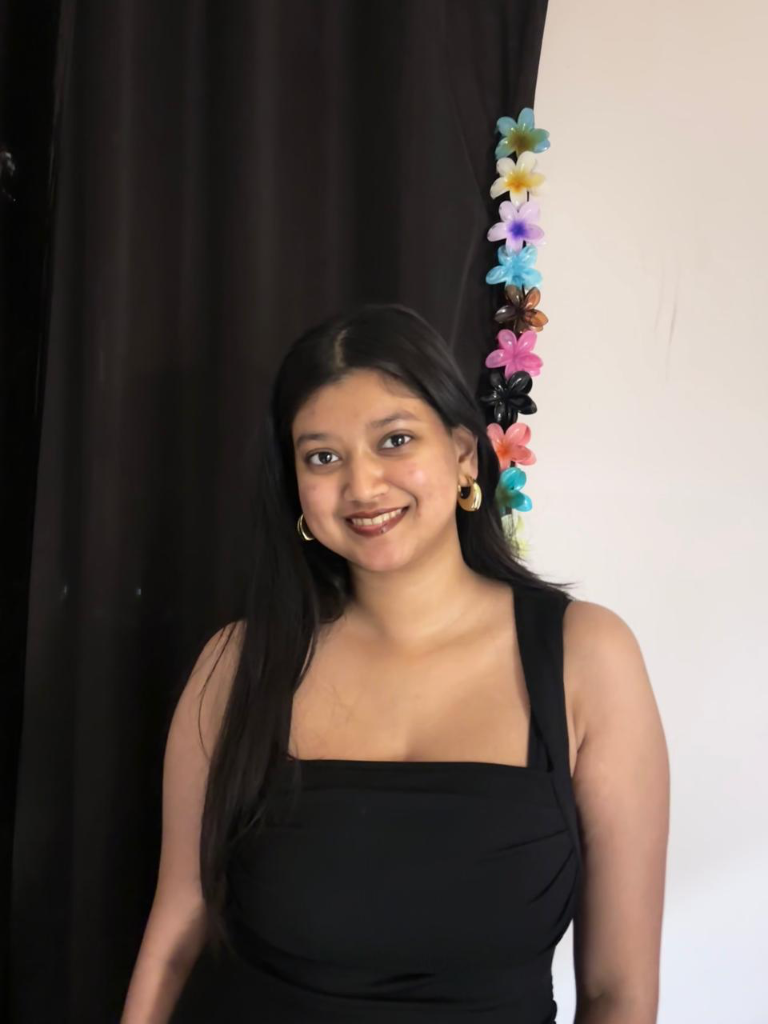
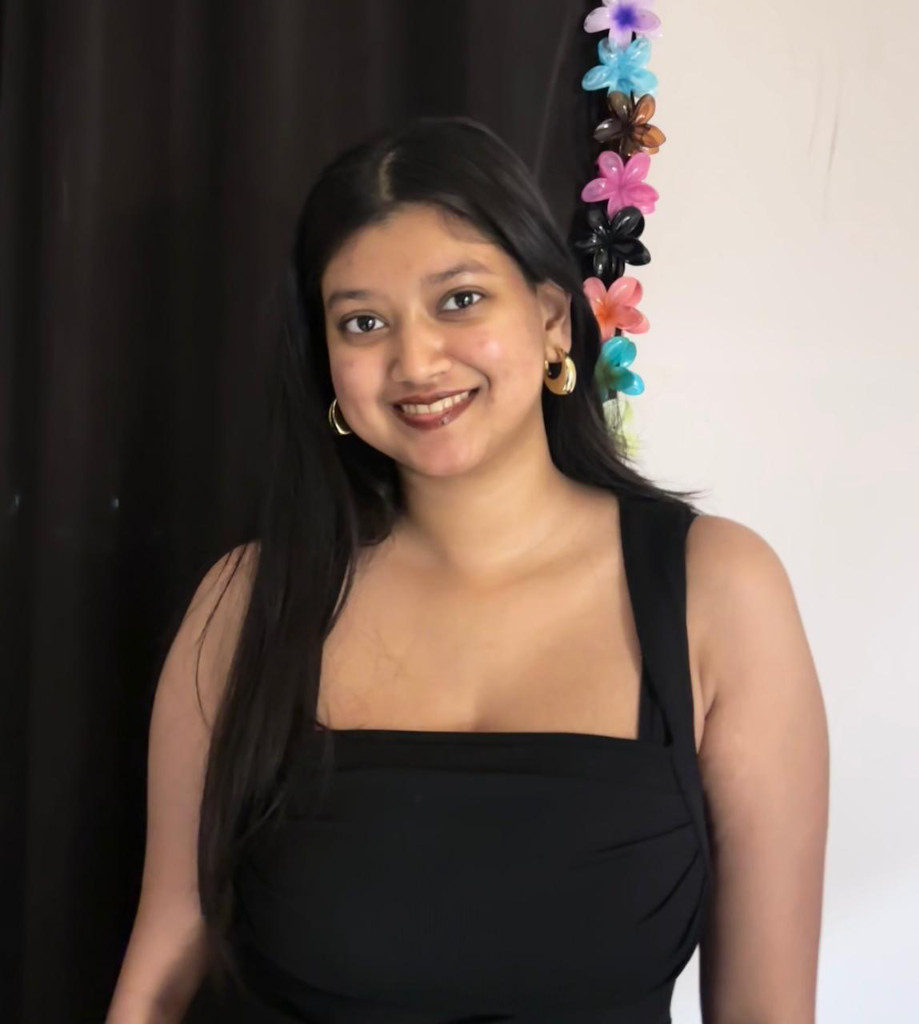
fix: update info card, new photo ascii, and catch recent contributions

diff --git a/scripts/prep_photo.py b/scripts/prep_photo.py
@@ -1,46 +1,12 @@
-"""Prep a photo for ASCII conversion: remove background, crop to square, boost contrast."""
+"""Prep a photo for ASCII conversion: remove background, boost contrast, composite on white."""
 import sys
 import os
+
 import numpy as np
 from PIL import Image
 from rembg import remove
 import cv2
 
-def crop_to_square(img_arr):
-    # img_arr is grayscale, white background (255)
-    # Find bounding box of non-white pixels
-    non_white = img_arr < 250
-    coords = np.argwhere(non_white)
-    
-    if coords.size == 0:
-        return img_arr # Empty image
-        
-    y0, x0 = coords.min(axis=0)
-    y1, x1 = coords.max(axis=0)
-    
-    # Add a little padding
-    pad = 20
-    h_img, w_img = img_arr.shape
-    y0 = max(0, y0 - pad)
-    y1 = min(h_img, y1 + pad)
-    x0 = max(0, x0 - pad)
-    x1 = min(w_img, x1 + pad)
-    
-    cropped = img_arr[y0:y1, x0:x1]
-    
-    # Now make it a square by cropping height to width (from top), or width to height
-    h, w = cropped.shape
-    size = min(h, w)
-    
-    if h > w:
-        # crop bottom to make square (keep top/face)
-        return cropped[:w, :]
-    elif w > h:
-        # crop sides to make square (keep center)
-        diff = (w - h) // 2
-        return cropped[:, diff:diff+h]
-    else:
-        return cropped
 
 def main():
     if len(sys.argv) < 2:
@@ -66,14 +32,11 @@ def main():
     # 2. Composite onto white
     white = Image.new("RGBA", img.size, (255, 255, 255, 255))
     composite = Image.alpha_composite(white, img).convert("L")  # grayscale
-    
-    # 3. Crop to square focusing on the subject
-    arr = np.array(composite)
-    square_arr = crop_to_square(arr)
 
-    # 4. Boost local contrast with CLAHE
+    # 3. Boost local contrast with CLAHE
+    arr = np.array(composite)
     clahe = cv2.createCLAHE(clipLimit=3.0, tileGridSize=(8, 8))
-    enhanced = clahe.apply(square_arr)
+    enhanced = clahe.apply(arr)
 
     Image.fromarray(enhanced).save(out_path)
     print(f"✓ Prepped photo → {out_path}")

diff --git a/scripts/make_info_card.py b/scripts/make_info_card.py
@@ -48,16 +48,16 @@ SVG = """\
       <text x="0" y="0"><tspan class="kn">Now      </tspan>: Building AI Agents &amp; ML Systems</text>
     </g>
     <g class="line d2">
-      <text x="0" y="22"><tspan class="kn">Edu      </tspan>: BTech CS + AI · Rishihood University</text>
+      <text x="0" y="22"><tspan class="kn">Edu      </tspan>: BTech CS+AI · Newton School of Technology</text>
     </g>
     <g class="line d3">
-      <text x="0" y="42"><tspan class="kn">         </tspan>  Finance Minor · 2nd Year</text>
+      <text x="0" y="42"><tspan class="kn">         </tspan>  Finance Minor · 3rd Year</text>
     </g>
     <g class="line d5">
-      <text x="0" y="78"><tspan class="ks">Stack    </tspan>: Python, Google ADK, FastAPI</text>
+      <text x="0" y="78"><tspan class="ks">Stack    </tspan>: Python, TypeScript, React, Node.js</text>
     </g>
     <g class="line d6">
-      <text x="0" y="98"><tspan class="ks">         </tspan>  LiteLLM, yfinance, MCP, Docker</text>
+      <text x="0" y="98"><tspan class="ks">         </tspan>  FastAPI, Prisma, Docker, WebSockets</text>
     </g>
     <g class="line d8">
       <text x="0" y="138"><tspan class="ks">AI / ML  </tspan>: Multi-Agent Systems, LLM Orchestration</text>
@@ -72,7 +72,7 @@ SVG = """\
       <text x="0" y="220"> • <tspan class="hi">Built autonomous equity research agent</tspan></text>
     </g>
     <g class="line d13">
-      <text x="0" y="240"> • <tspan class="hi">Developed Relay, Card Fraud Triage, Attend Mate</tspan></text>
+      <text x="0" y="240"> • <tspan class="hi">Developed Relay, Card Fraud Triage</tspan></text>
     </g>
     <g class="line d14">
       <text x="0" y="260"> • <tspan class="hi">Kaggle × Google AI Agents Intensive '26</tspan></text>

diff --git a/README.md b/README.md
@@ -26,6 +26,5 @@
 [![Equity Research Agent](https://img.shields.io/badge/🏦_Equity_Research_Agent-Live_Demo-blueviolet?style=for-the-badge)](https://equity-research-agent-v9xq.onrender.com/)
 [![Relay](https://img.shields.io/badge/Relay-Source_Code-blue?style=for-the-badge)](https://github.com/palak22291/Relay)
 [![Card Fraud Triage](https://img.shields.io/badge/Card_Fraud_Triage-Source_Code-red?style=for-the-badge)](https://github.com/palak22291/Card-Fraud-Triage)
-[![Attend Mate](https://img.shields.io/badge/Attend_Mate-Source_Code-green?style=for-the-badge)](https://github.com/palak22291/Attend-Mate)
 
 </div>
